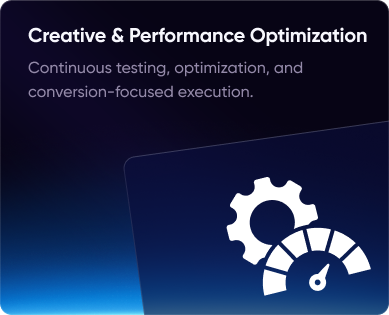
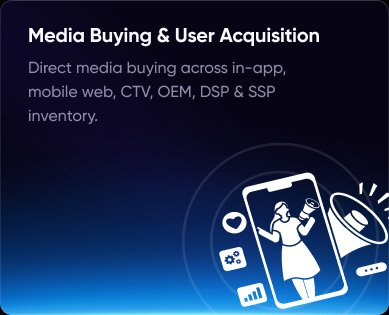
Rajneekant branch (#12)
* testing

* Adding images accordingly

* changing image for venture and career page

* changes animation

* case study part

* how we do

---------

diff --git a/src/components/HowWeDo.jsx b/src/components/HowWeDo.jsx
@@ -1,64 +1,87 @@
 import FadeSection from './FadeSection'
+import creativeImg from '../assets/images/home/how-we-do/creative-performance.png'
+import measureImg  from '../assets/images/home/how-we-do/measurement-attribution.png'
+import fraudImg    from '../assets/images/home/how-we-do/fraud-prevention.png'
+import strategyImg from '../assets/images/home/how-we-do/strategy-planning.png'
+import mediaImg    from '../assets/images/home/how-we-do/media-buying.png'
 
-const SERVICES = [
-  {
-    title: 'Performance Marketing',
-    desc: "Performance marketing is a game-changer. We'll help your audience with our customized marketing campaigns. Partner with us to take your brand to new heights.",
-    icon: (
-      <svg width="52" height="52" viewBox="0 0 52 52" fill="none">
-        <rect x="6" y="26" width="8" height="20" rx="2" fill="#1E40AF" opacity="0.8"/>
-        <rect x="18" y="18" width="8" height="28" rx="2" fill="#2563EB"/>
-        <rect x="30" y="10" width="8" height="36" rx="2" fill="#3B82F6"/>
-        <rect x="42" y="6" width="4" height="40" rx="2" fill="#60A5FA"/>
-        <polyline points="6,30 14,20 26,24 38,12 46,8" stroke="#93C5FD" strokeWidth="1.5" fill="none"/>
-      </svg>
-    ),
-  },
-  {
-    title: 'Targeting',
-    desc: "Targeting is a game-changer. We'll help you stay connected with interested audiences and boost your ROI with expert retargeting strategies.",
-    icon: (
-      <svg width="52" height="52" viewBox="0 0 52 52" fill="none">
-        <circle cx="26" cy="26" r="18" stroke="#2563EB" strokeWidth="1.5"/>
-        <circle cx="26" cy="26" r="11" stroke="#3B82F6" strokeWidth="1.5"/>
-        <circle cx="26" cy="26" r="4" fill="#60A5FA"/>
-        <path d="M26 8v6M26 38v6M8 26h6M38 26h6" stroke="#2563EB" strokeWidth="1.5"/>
-        <circle cx="36" cy="16" r="5" fill="#1E3A8A" stroke="#3B82F6" strokeWidth="1"/>
-        <path d="M34 16l1.5 1.5L38 14" stroke="#60A5FA" strokeWidth="1.2"/>
-      </svg>
-    ),
-  },
-  {
-    title: 'Branding',
-    desc: "A strong brand creates lasting connections with customers. Let our branding experts help you build a brand that resonates, inspires and drives growth.",
-    icon: (
-      <svg width="52" height="52" viewBox="0 0 52 52" fill="none">
-        <circle cx="26" cy="26" r="16" stroke="#2563EB" strokeWidth="1.5" strokeDasharray="4 2"/>
-        <circle cx="26" cy="26" r="8" fill="#1E3A8A"/>
-        <path d="M22 22l8 8M30 22l-8 8" stroke="#60A5FA" strokeWidth="1.5"/>
-        <circle cx="26" cy="26" r="3" fill="#3B82F6"/>
-      </svg>
-    ),
-  },
+const CARD_W = '389px'
+const CARD_H = '315px'
+
+const CARDS = [
+  { img: creativeImg, alt: 'Creative & Performance Optimization'  },
+  { img: measureImg,  alt: 'Measurement & Attribution'            },
+  { img: fraudImg,    alt: 'Fraud Prevention & Quality Control'   },
+  { img: strategyImg, alt: 'Strategy & Campaign Planning'         },
+  { img: mediaImg,    alt: 'Media Buying & User Acquisition'      },
 ]
 
-export default function WhatWeDo() {
+const cardStyle = {
+  width: CARD_W,
+  height: CARD_H,
+  borderRadius: '12px',
+  border: '1px solid transparent',
+  backgroundImage:
+    'linear-gradient(rgba(7,4,21,1),rgba(7,4,21,1)), linear-gradient(180deg,rgba(250,250,250,0.20) 0%,rgba(250,250,250,0.10) 100%)',
+  backgroundOrigin: 'border-box',
+  backgroundClip: 'padding-box, border-box',
+  boxShadow: '0 4px 32px rgba(0,0,0,0.5)',
+  overflow: 'hidden',
+  flexShrink: 0,
+  transition: 'box-shadow 0.35s',
+}
+
+const imgStyle = {
+  width: CARD_W,
+  height: CARD_H,
+  display: 'block',
+  objectFit: 'cover',
+  borderRadius: '12px',
+  transition: 'transform 0.7s ease',
+}
+
+function HowCard({ img, alt }) {
+  return (
+    <div
+      className="group"
+      style={cardStyle}
+      onMouseEnter={e => {
+        e.currentTarget.style.boxShadow = '0 0 0 1px rgba(59,130,246,0.45), 0 8px 48px rgba(0,60,200,0.3)'
+      }}
+      onMouseLeave={e => {
+        e.currentTarget.style.boxShadow = '0 4px 32px rgba(0,0,0,0.5)'
+      }}
+    >
+      <img
+        src={img}
+        alt={alt}
+        style={imgStyle}
+        className="group-hover:scale-[1.03]"
+      />
+    </div>
+  )
+}
+
+export default function HowWeDo() {
   return (
     <FadeSection>
       <section className="py-20 px-4">
         <div className="max-w-6xl mx-auto">
-          <h2 className="font-display text-4xl md:text-5xl font-bold text-center text-white mb-14">What We Do</h2>
-          <div className="grid grid-cols-1 md:grid-cols-3 gap-6">
-            {SERVICES.map((s, i) => (
-              <div key={i} className="card-glow rounded-2xl p-6 flex flex-col gap-4">
-                <div className="h-36 flex items-center justify-center rounded-xl"
-                  style={{background:'linear-gradient(135deg,rgba(15,30,80,0.8),rgba(5,10,40,0.9))'}}>
-                  {s.icon}
-                </div>
-                <h3 className="font-display font-semibold text-lg text-white">{s.title}</h3>
-                <p className="text-gray-400 text-sm leading-relaxed">{s.desc}</p>
-              </div>
-            ))}
+          <h2 className="font-display text-4xl md:text-5xl font-bold text-center text-white mb-14">
+            How We Do
+          </h2>
+
+          {/* Row 1 — Creative | Measurement | Fraud (3 cards) */}
+          <div style={{ display: 'flex', justifyContent: 'center', gap: '24px', marginBottom: '24px' }}>
+            <HowCard img={CARDS[0].img} alt={CARDS[0].alt} />
+            <HowCard img={CARDS[1].img} alt={CARDS[1].alt} />
+            <HowCard img={CARDS[2].img} alt={CARDS[2].alt} />
+          </div>
+
+          {/* Row 2 — Strategy | Media Buying (2 cards centered) */}
+          <div style={{ display: 'flex', justifyContent: 'center', gap: '24px', flexWrap: 'wrap' }}>
+            <HowCard img={CARDS[3].img} alt={CARDS[3].alt} />
+            <HowCard img={CARDS[4].img} alt={CARDS[4].alt} />
           </div>
         </div>
       </section>

diff --git a/src/components/OurProductsPage.jsx b/src/components/OurProductsPage.jsx
@@ -18,16 +18,16 @@ import FadeSection from "./FadeSection";
 // ─────────────────────────────────────────────
 
 // Inventory / Global Media cards
-import ctvOemImg from "../assets/images/products/inventory-cards/ctv-oem.png";
-import inAppImg from "../assets/images/products/inventory-cards/in-app-inventory.png";
-import dspSspImg from "../assets/images/products/inventory-cards/dsp-ssp.png";
-import dmpImg from "../assets/images/products/inventory-cards/dmp-targeting.png";
+import ctvOemImg        from "../assets/images/products/inventory-cards/ctv-oem.png";
+import inAppImg         from "../assets/images/products/inventory-cards/in-app-inventory.png";
+import dspSspImg        from "../assets/images/products/inventory-cards/dsp-ssp.png";
+import dmpImg           from "../assets/images/products/inventory-cards/dmp-targeting.png";
 
 // Phone screen images
-import gamingImg from "../assets/images/products/phone-screens/gaming-app.png";
-import entertainImg from "../assets/images/products/phone-screens/entertainment.png";
-import newsImg from "../assets/images/products/phone-screens/content-news.png";
-import analyticsImg from "../assets/images/products/phone-screens/analytics.png";
+import gamingImg        from "../assets/images/products/phone-screens/gaming-app.png";
+import entertainImg     from "../assets/images/products/phone-screens/entertainment.png";
+import newsImg          from "../assets/images/products/phone-screens/content-news.png";
+import analyticsImg     from "../assets/images/products/phone-screens/analytics.png";
 
 /* ── Section 1: Hero ── */
 function OwnedAssetsHero() {

diff --git a/src/components/PublishersPage.jsx b/src/components/PublishersPage.jsx
@@ -300,7 +300,9 @@ function BecomePublisher() {
             onFocus={(e) =>
               (e.target.style.borderColor = "rgba(0,180,255,0.7)")
             }
-            onBlur={(e) => (e.target.style.borderColor = "rgba(0,120,255,0.3)")}
+            onBlur={(e) =>
+              (e.target.style.borderColor = "rgba(0,120,255,0.3)")
+            }
           />
 
           <button
